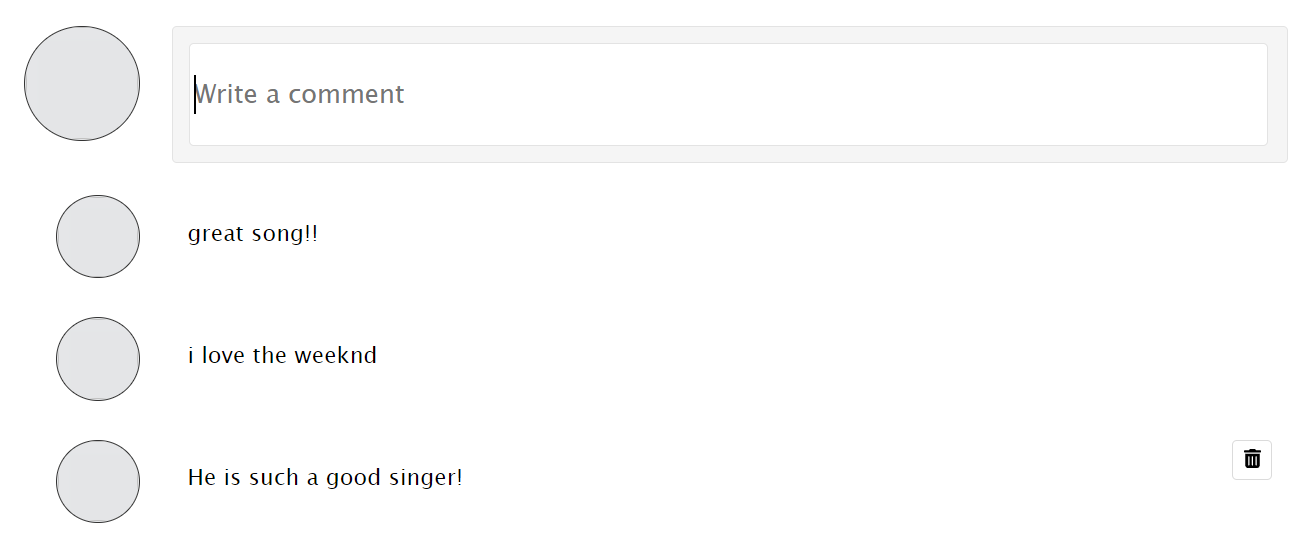
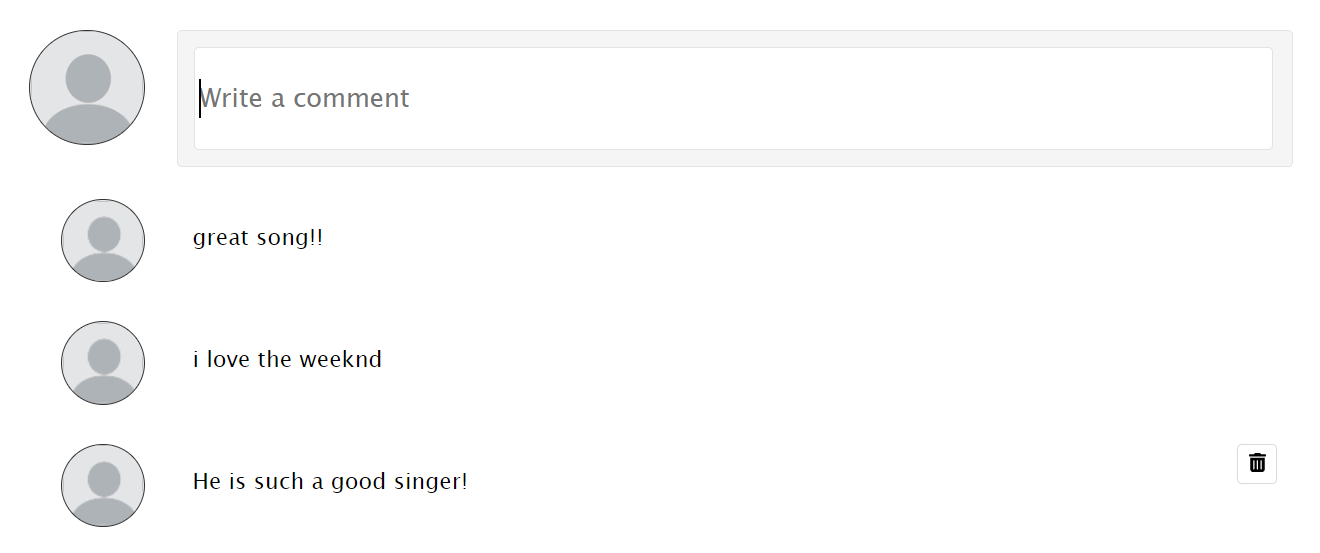
updates to images

diff --git a/app/assets/stylesheets/comments.scss b/app/assets/stylesheets/comments.scss
@@ -13,6 +13,7 @@
     border: 1px solid #333;
     border-radius: 100%;
     background-image: url("https://noisecloud-seeds.s3.us-west-1.amazonaws.com/Profile.jpg");
+    background-size: cover;
 }
 
 .comment-form {
@@ -68,6 +69,7 @@
     border: 1px solid #333;
     border-radius: 100%;
     background-image: url("https://noisecloud-seeds.s3.us-west-1.amazonaws.com/Profile.jpg");
+    background-size: cover;
 }
 
 .comment-commenter-username {
